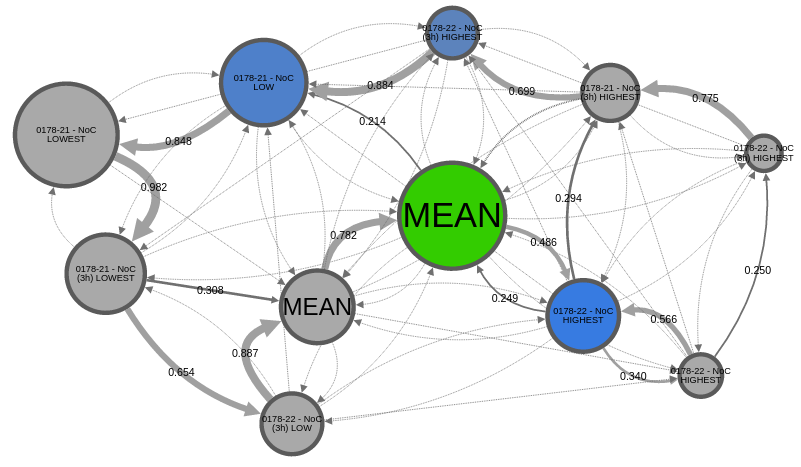
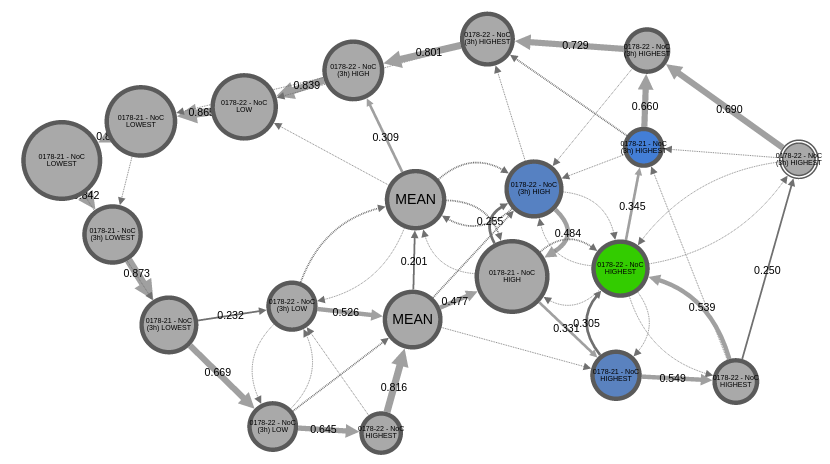
traffic example

diff --git a/Vis/experiments.tex b/Vis/experiments.tex
@@ -130,36 +130,7 @@ On a coerce scale, with only three states, we were able to identify the typical 
 When zooming into a finer scale, shown in Figure \ref{fig:traffic-coarcer}, the rightmost state gets split into two states. The top-left of the two new states (green) now represents noon and evening and has a moderate number of cars with an average of $907$ and $631$ cars per hour for the two counters respectively. From this state, the system goes either back into the night state or into the afternoon state on the right of Figure \ref{fig:traffic-coarcer} with the highest number of cars detected on both sensors, with an average of $1240$ and $1290$ cars per hour. This state lasts from approximately $3PM$ to $6PM$ when the system jumps back into the moderate day state.
 
 When zooming even further into Figure \ref{fig:traffic-middle}, an interesting thing happens. The system detects a small state which typically occurs on Friday evening and is shown on the right of Figure \ref{fig:traffic-middle}. This is a time when most of the student leave the town and go home for the weekend and when people leave for weekend vacations.
-Finally in Figure \ref{fig:traffic-finest} the daily cycle starts becoming less apparent.
-
-\newpage
-
-
-Our next example, shown in Figure \ref{fig:example-traffic}, shows a representation of a traffic counter positioned on the highway ring around Ljubljana, Slovenia.
-\lstopar{In this example, we lifted the counter into a three dimensional space, by also including the number of
-cars three hours and one day before.}
-
-
-
-
-
-\iffalse
-\begin{figure}[h!]
-	\centering
-	\includegraphics[width=\columnwidth]{example-traffic}
-	\caption{Qualitative representation of a traffic counter positioned on the highway ring around Ljubljana. On a high level, we were able to identify what we believe are the typical daily states on the ring with the night state, with low traffic, on the left, the midday state with the highest traffic on the right and a morning and evening states with moderate traffic on the top and bottom. \dunja{see if the font in Fig. 11 can be larger}}
-	\label{fig:example-traffic}
-\end{figure}
-\fi
-
-On a high level, our system was able to identify what we believe is the typical daily cycle on the highway ring.
-The state on the left hand side represents a night state, when the traffic traffic is the lowest. This state
-lasts from 10 PM to 5 AM when most people are asleep and not much is happening on the road. Then, with a high 
-probability, the system jumps into the topmost state with an above average traffic count which lasts from 6 AM
-to roughly 9 AM. The next state is the midday state on the right with the highest traffic count lasting from 9 AM
-to 7 PM. This is exactly the time when the traffic is very dense and most congestions occur. The next transition
-is to the bottommost ``evening" state with an average traffic count between 300 and 1000 cars per hour,
-lasting from 8 PM to approximately 10 PM. 
+Finally when zooming in even further into Figure \ref{fig:traffic-finest} a new structure appears. Each state now represents a smaller time interval with the nightly states in the top left of the figure and the daily states on the bottom right. It is not surprising that the transitions in the nightly states seem a lot more deterministic than in the daily states. Indeed, at night not a lot of cars drive on the ring while during the day various events introduce noise into the system.
 
 \primoz{
 \begin{itemize}
